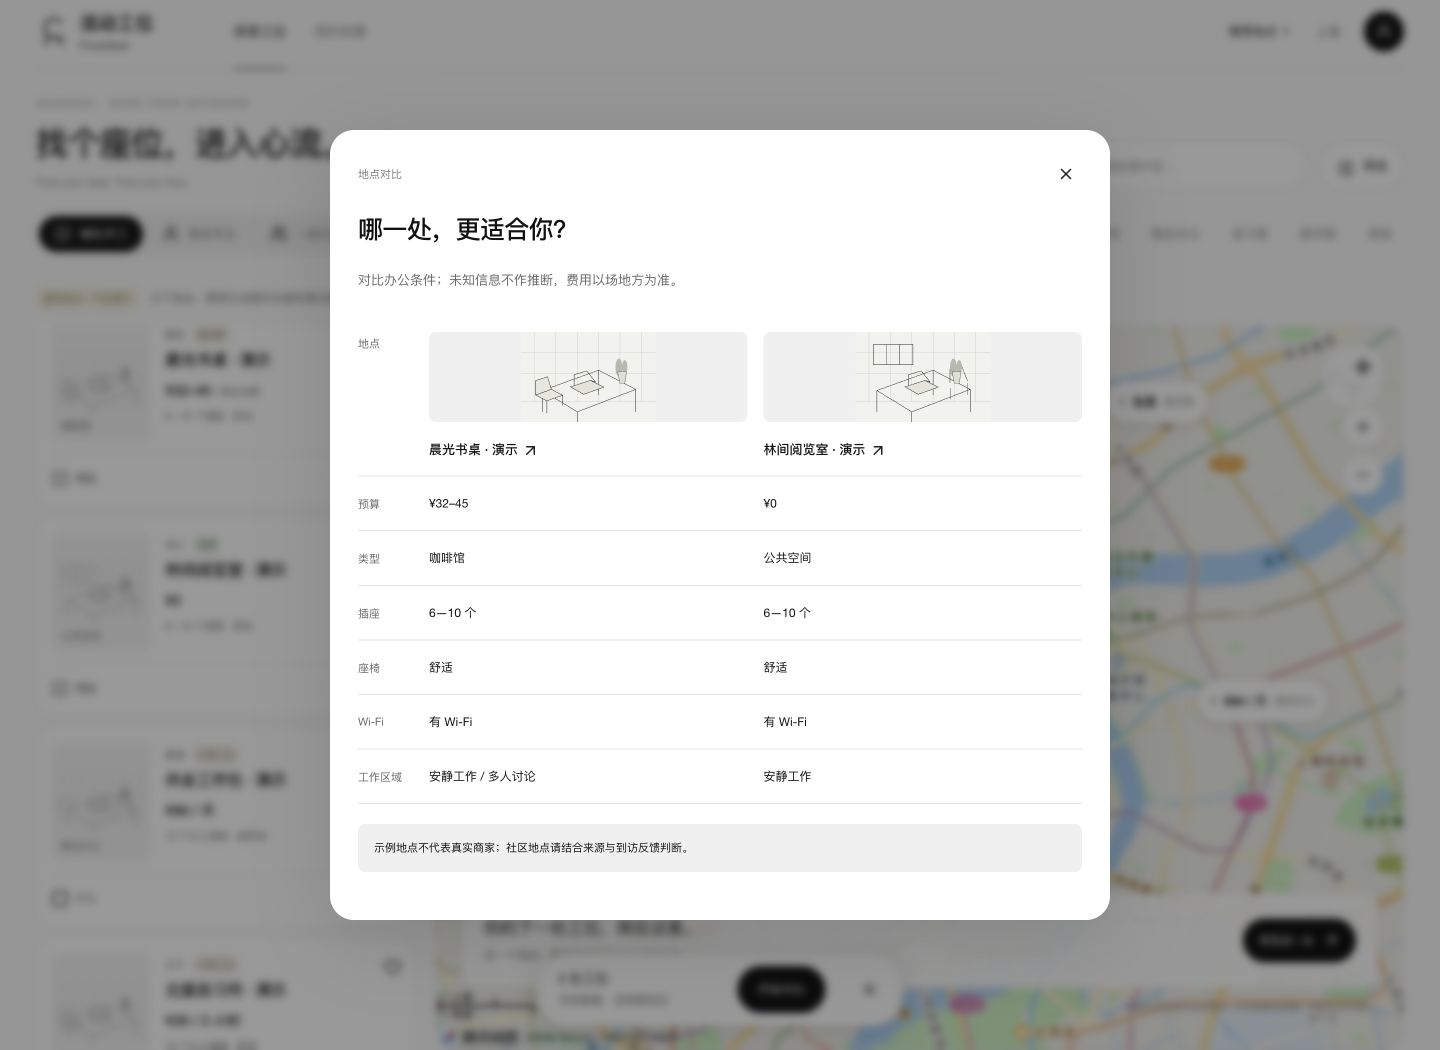
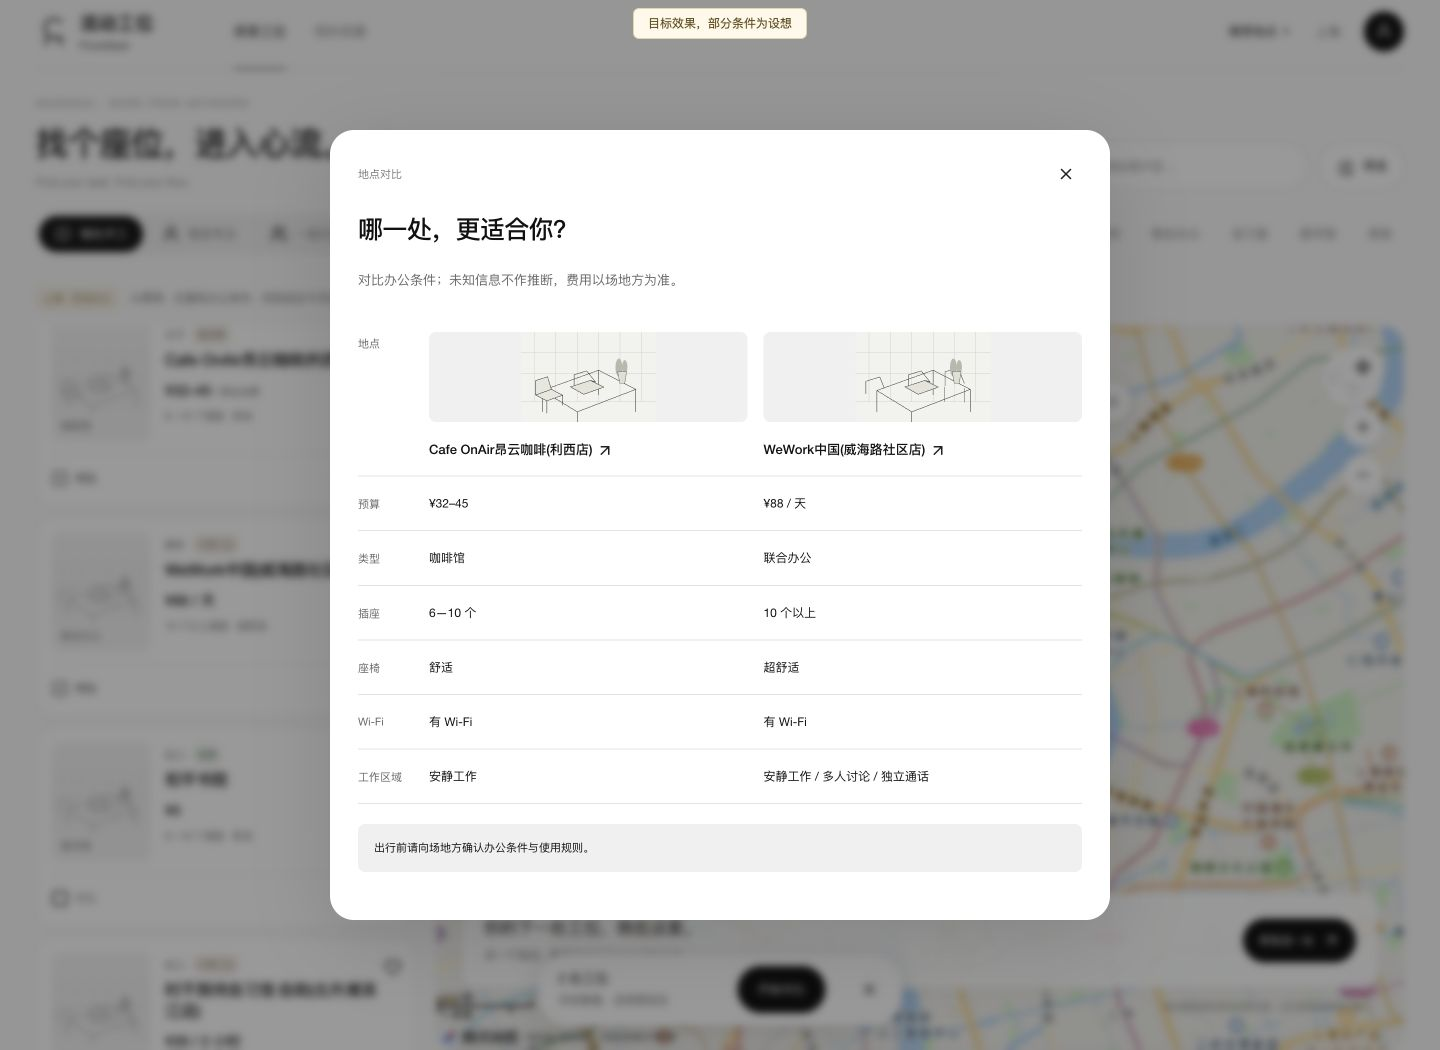
docs: show the target experience with sourced place identities

diff --git a/docs/screenshots/README.md b/docs/screenshots/README.md
@@ -1,12 +1,19 @@
-# Web 产品截图
+# Web 目标效果截图
 
-`web-explore.jpg`、`web-detail.jpg`、`web-compare.jpg`、`web-contribute.jpg` 由当前功能版 Web 的本机演示环境实际操作截取。浏览器桌面视口为 1440 × 1050。探索与对比保留完整桌面视口（含地图版权或整个弹窗），各为 1440 × 1050；探索列表为产品自身的可滚动面板，并非展示全部 8 张卡片。详情完整页面为 1440 × 1280，已填写虚构示例且未提交的投稿完整页面为 1440 × 2590，均包含底部内容。旧的非 `web-` 图片保留作历史素材。
+`web-explore.jpg`、`web-detail.jpg`、`web-compare.jpg`、`web-contribute.jpg` 由当前功能版 Web 的独立本机截图环境实际操作截取。视口为 1440 × 1050；探索与对比使用完整视口截图，详情为 1440 × 1905、投稿为 1440 × 2590 的完整页面截图。投稿仅填写，未提交。旧的非 `web-` 图片保留作历史素材。
 
-## 演示数据范围
+## 真实基础信息与设想条件
 
-8 处地点均为虚构，名称带「演示」，地址标明「请勿前往」。费用、时间、Wi-Fi、插座、座椅、工作分区、停留与进入规则为产品展示数据，不是店铺事实或实访结论。地图底图与缩放、聚类、选择、列表及对比交互来自当前 Web 实现；演示坐标不用于出行导航。未连接生产数据库，也不模拟真实登录。
+地点名称、地址、GCJ-02 坐标、类型、区域及基础来源直接取自仓库数据，不编造真实地址，也不代表本轮实时核验：
 
-演示脚本使用独立内存数据库，关闭真实地点自动导入，启动时重新生成数据。为了让现有地图显示演示点，fixture 使用普通地点的渲染路径；HTTP 服务仅在输出的 JavaScript 中把来源提示替换为「虚构地点 · 产品演示」、明确虚构数据与地图不可导航，将「社区收录」改为「演示收录」，并标明插画虚构。这些文字替换不写回生产源码或构建产物。因此截图展示的是当前 Web 的演示环境，而非原样生产页面或审核完成证明。
+- `data/shanghai-real-discovery.json`：Cafe OnAir昂云咖啡(利西店)、WeWork中国(威海路社区店)。
+- `data/shanghai-expansion-20261025.json`：和平书院、时不我待自习馆·自助(北外滩滨江店)、ideaPod reserved工作咖啡(洛克外滩源店)。
+- `data/shanghai-expansion-20261027.json`：徐家汇书院(徐汇区图书馆)、黄浦区图书馆城市书房。
+- `data/shanghai-expansion-20261101.json`：北外滩街道图书馆。
+
+仓库已有明确值沿用，包括 `server/research.mjs` 中四处图书馆的开放时间。缺失的费用、插座、座椅、Wi-Fi、分区、进入与停留规则等，用目标状态设想补齐；咖啡馆/工位空间缺失的时间也属于设想。原本无依据的办公许可布尔值属于待确认，在截图环境补为目标状态，不构成许可结论。每条数据的 `targetPreview.assumedFields` 可查看精确补齐字段列表。
+
+设想字段不添加官方、实访或商家证据，不挂真实来源链接作背书；基础资料链接与历史研究记录保留原用途和日期。原始插画仍为示意图。每页统一显示「目标效果，部分条件为设想」，不在每个卡片上重复标注。截图不能作为真实费用、设施、营业状态或审核完成的证明。
 
 ## 本机复现
 
@@ -18,6 +25,8 @@ npm run sync:web
 node scripts/readme-demo.mjs
 ```
 
-浏览器打开 `http://127.0.0.1:8863/`。详情可用 `/#/pages/index/index?id=showcase-1`，投稿可用 `/#/pages/contribute/index`。探索页勾选两处地点的「对比」即可查看对比表。结束后按 Ctrl+C，内存数据随进程销毁。
+打开 `http://127.0.0.1:8863/`，详情可用 `/#/pages/index/index?id=source-f97015e6b64bf8feb7d28635`，投稿可用 `/#/pages/contribute/index`。探索页选两处「对比」即可查看对比表。完成后 Ctrl+C，独立内存数据随进程销毁。
 
-地图从被 Git 忽略的 `site-preview/.dev.vars` 读取 `TENCENT_MAP_KEY`；缺少该本机配置时地图服务关闭，脚本不输出密钥。服务仅监听 `127.0.0.1`，不可发布到公网。投稿页匿名状态用于展示表单；此环境不提供真实登录。
+脚本使用当前客户端与 API，关闭真实地点自动导入，不连接生产数据库，不模拟真实登录。服务仅监听 `127.0.0.1`，不可发布到公网。地图从被 Git 忽略的 `site-preview/.dev.vars` 读取 `TENCENT_MAP_KEY`，不打印密钥；缺少配置时地图关闭。
+
+为避免把目标条件误称真实核实，脚本仅在 HTTP 静态响应中调整来源提示和「社区收录」措辞，并在 HTML 顶部加入统一目标效果提示，不修改生产源码或构建产物。因此这些是当前 Web 的目标效果截图，非原样生产页面。
